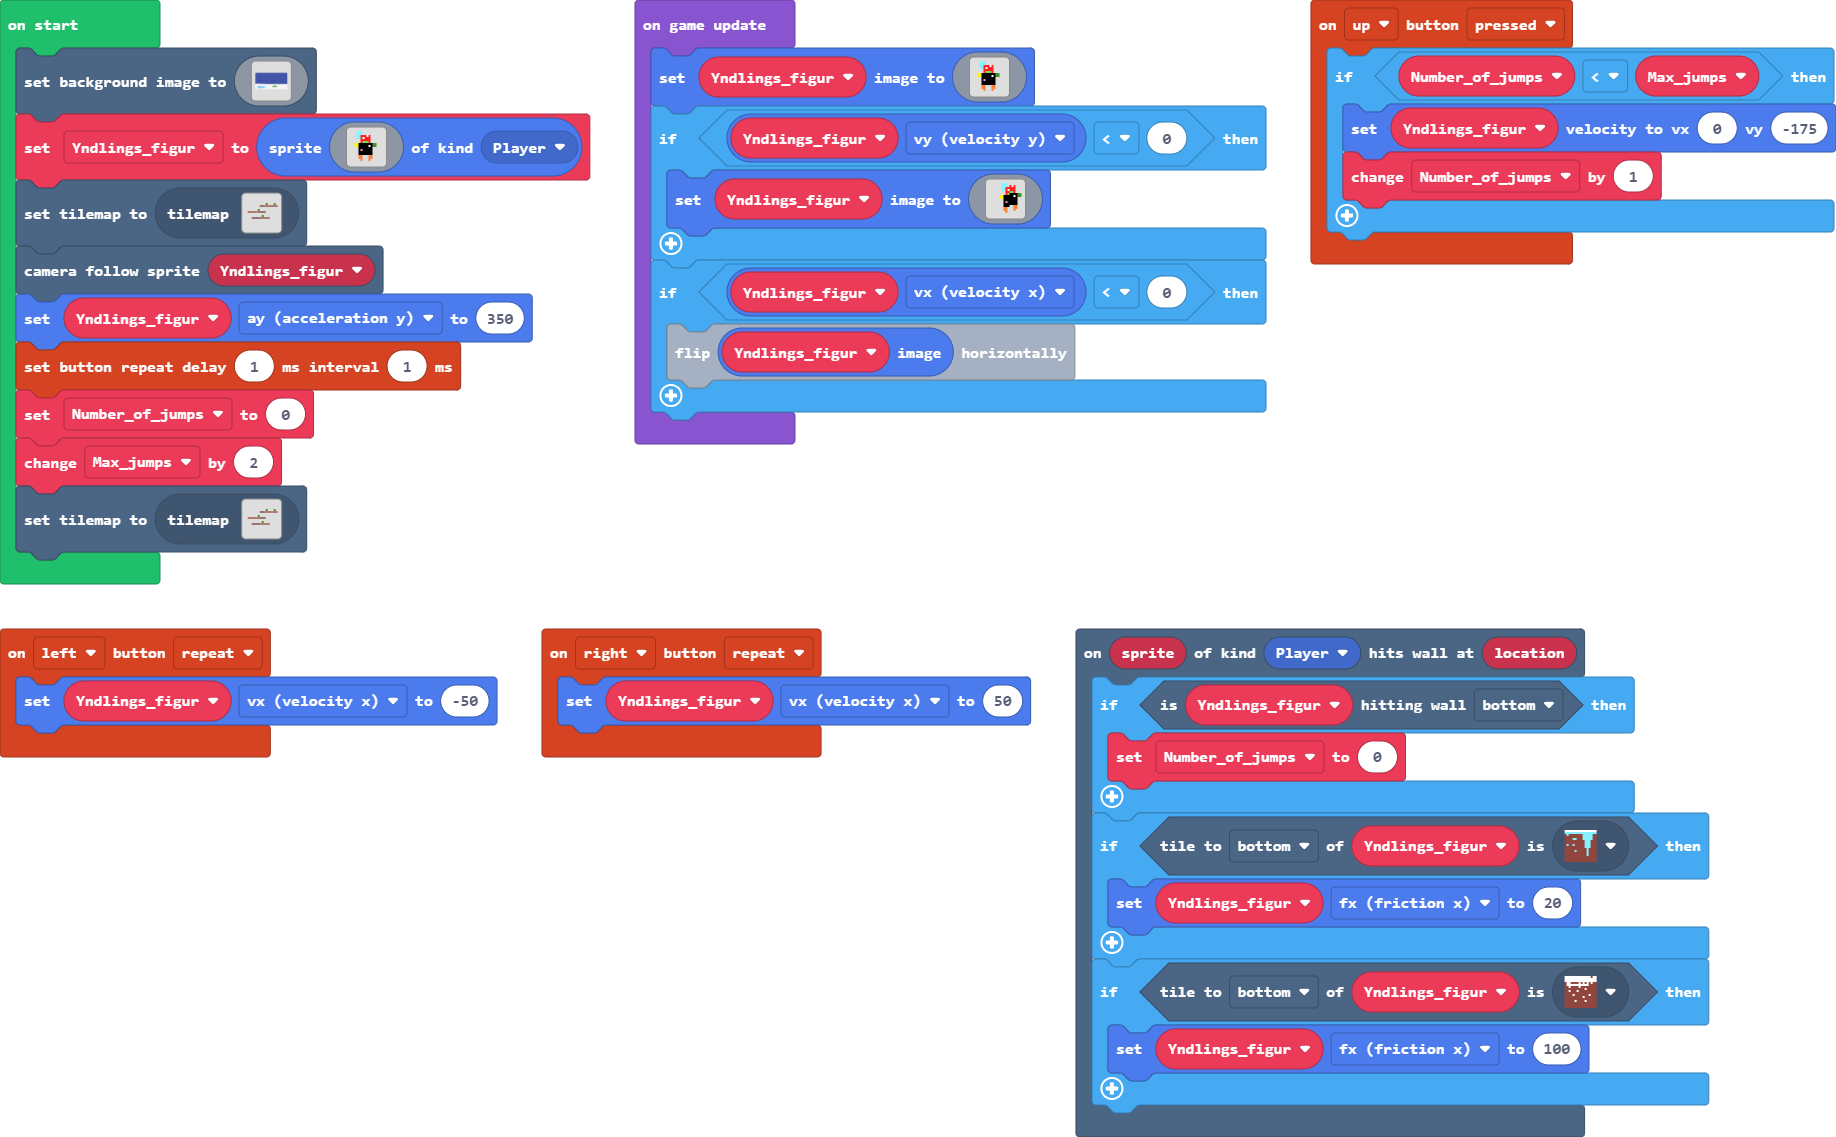
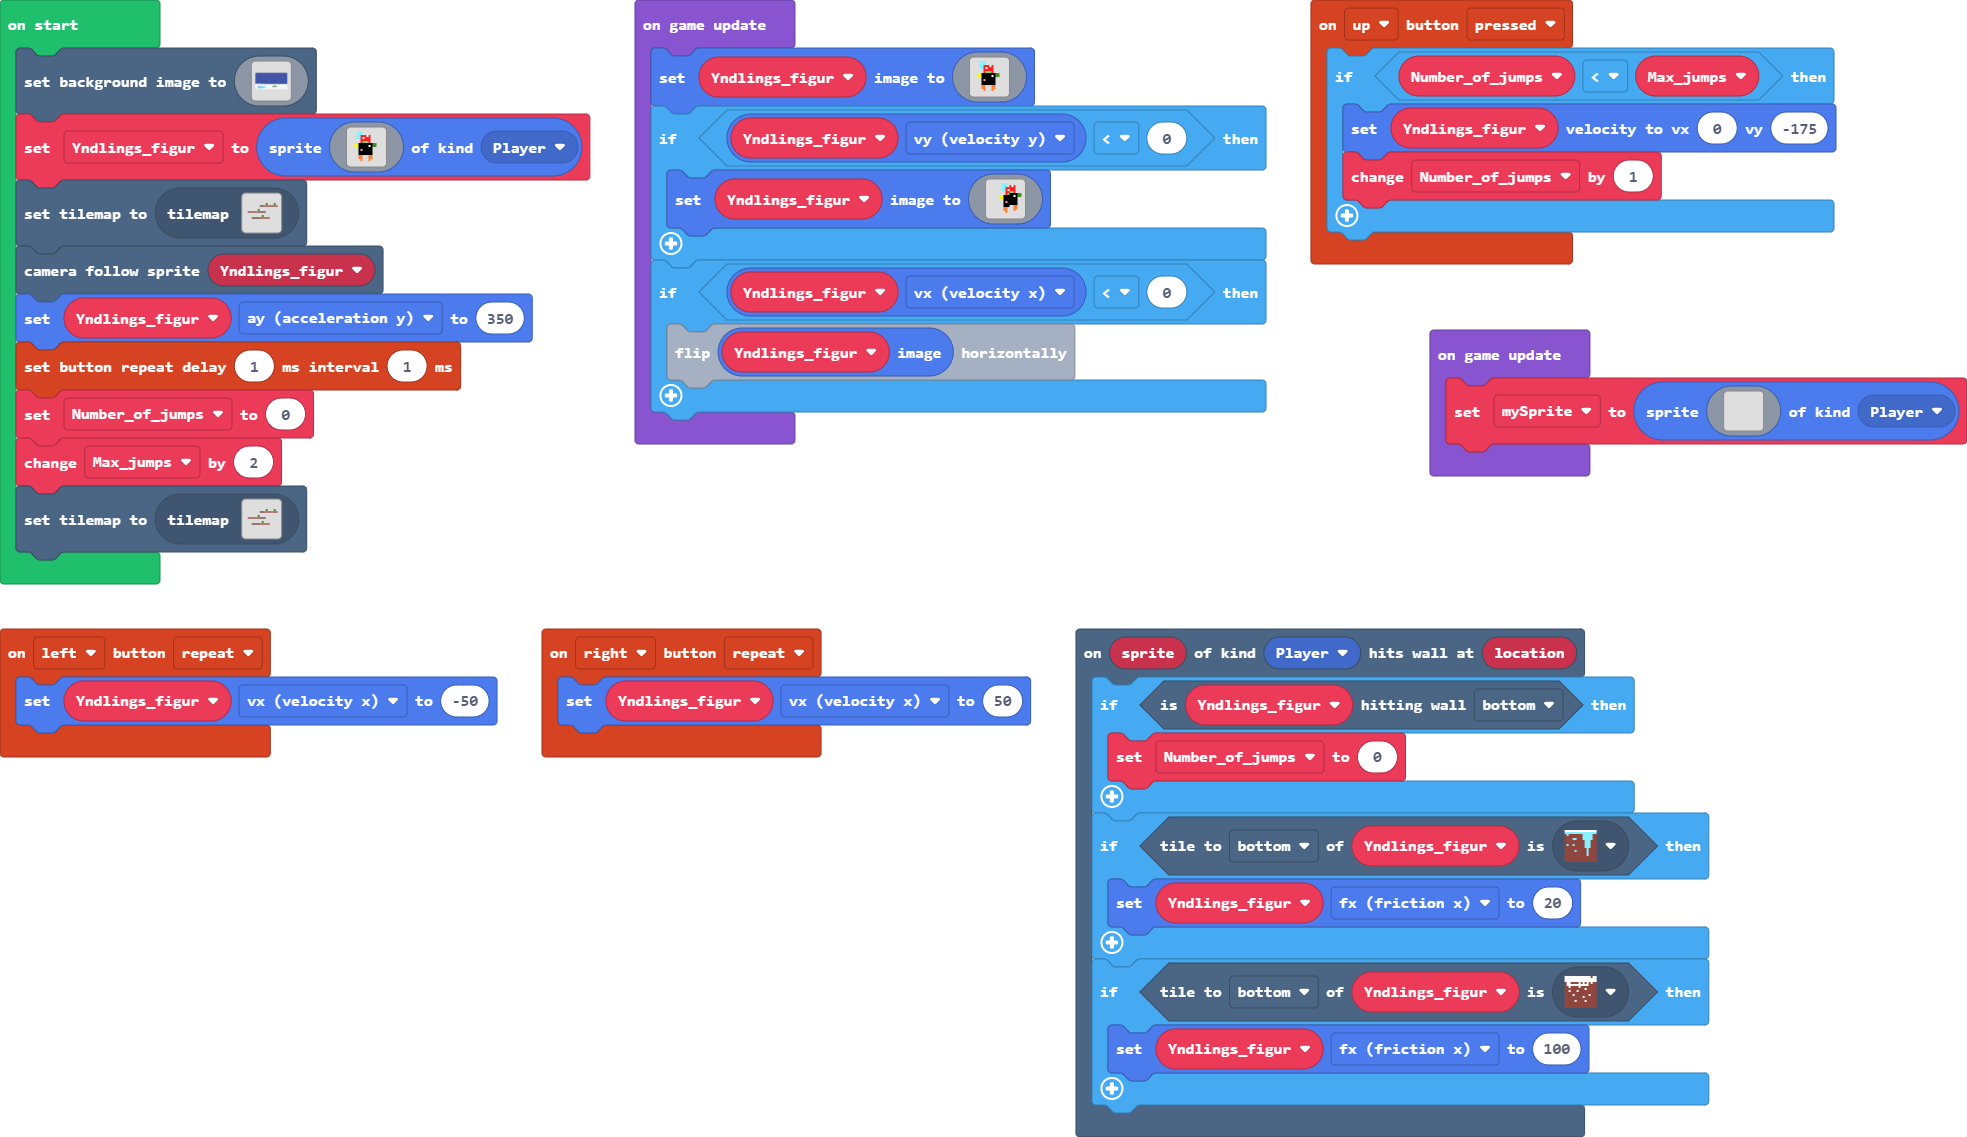
Update main.blocks, main.ts

diff --git a/main.ts b/main.ts
@@ -21,6 +21,7 @@ controller.right.onEvent(ControllerButtonEvent.Repeated, function () {
 controller.left.onEvent(ControllerButtonEvent.Repeated, function () {
     Yndlings_figur.vx = -50
 })
+let mySprite: Sprite = null
 let Max_jumps = 0
 let Number_of_jumps = 0
 let Yndlings_figur: Sprite = null
@@ -58,4 +59,24 @@ game.onUpdate(function () {
     if (Yndlings_figur.vx < 0) {
         Yndlings_figur.image.flipX()
     }
+})
+game.onUpdate(function () {
+    mySprite = sprites.create(img`
+        . . . . . . . . . . . . . . . . 
+        . . . . . . . . . . . . . . . . 
+        . . . . . . . . . . . . . . . . 
+        . . . . . . . . . . . . . . . . 
+        . . . . . . . . . . . . . . . . 
+        . . . . . . . . . . . . . . . . 
+        . . . . . . . . . . . . . . . . 
+        . . . . . . . . . . . . . . . . 
+        . . . . . . . . . . . . . . . . 
+        . . . . . . . . . . . . . . . . 
+        . . . . . . . . . . . . . . . . 
+        . . . . . . . . . . . . . . . . 
+        . . . . . . . . . . . . . . . . 
+        . . . . . . . . . . . . . . . . 
+        . . . . . . . . . . . . . . . . 
+        . . . . . . . . . . . . . . . . 
+        `, SpriteKind.Player)
 })
